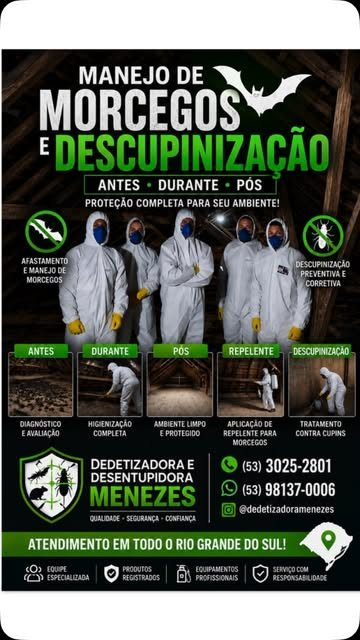
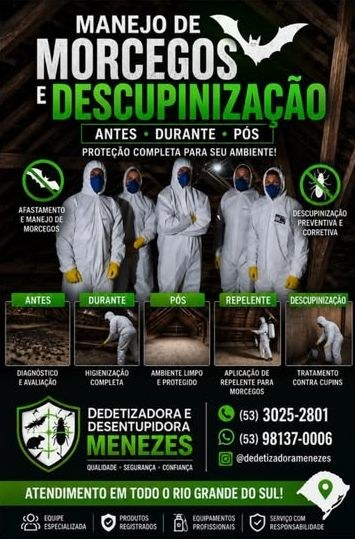
Galeria: cartões do carrossel com largura que cabe na tela e arte da descupinização sem faixas brancas

diff --git a/index.html b/index.html
@@ -203,18 +203,16 @@
   .highlights{display:flex;flex-wrap:wrap;gap:10px;margin:0;padding:0;list-style:none;}
 
   /* galeria: artes do Instagram da própria empresa, sempre inteiras (sem corte). Celular: carrossel; computador: linha com a mesma altura */
-  .gallery{display:flex;gap:12px;overflow-x:auto;scroll-snap-type:x mandatory;-webkit-overflow-scrolling:touch;margin:0;padding:0 0 10px;list-style:none;}
-  .gallery li{flex:0 0 auto;height:400px;scroll-snap-align:start;margin:0;}
-  .gallery a{display:block;height:100%;border-radius:14px;overflow:hidden;background:#0d0e0d;border:1px solid var(--line);}
-  .gallery img{height:100%;width:auto;max-width:none;display:block;transition:transform .5s ease;}
+  .gallery{display:flex;align-items:center;gap:12px;overflow-x:auto;scroll-snap-type:x mandatory;-webkit-overflow-scrolling:touch;margin:0;padding:0 0 10px;list-style:none;}
+  .gallery li{flex:0 0 auto;width:min(78vw,320px);scroll-snap-align:start;margin:0;}
+  .gallery a{display:block;border-radius:14px;overflow:hidden;background:#0d0e0d;border:1px solid var(--line);}
+  .gallery img{width:100%;height:auto;display:block;transition:transform .5s ease;}
   .gallery a:hover img{transform:scale(1.02);}
   .gallery-hint{display:none;margin-top:10px;font-family:var(--cond);font-weight:600;font-size:13px;color:var(--muted);}
   @media(max-width:899px){.gallery-hint{display:block;}}
   @media(min-width:900px){
-    .gallery{overflow:visible;gap:16px;padding:0;}
-    .gallery li{flex:var(--r) 1 0;height:auto;min-width:0;}
-    .gallery a{height:auto;}
-    .gallery img{width:100%;height:auto;}
+    .gallery{overflow:visible;gap:16px;padding:0;align-items:flex-start;}
+    .gallery li{flex:var(--r) 1 0;width:auto;min-width:0;}
   }
   .gallery-foot{margin-top:18px;}
 
@@ -569,7 +567,7 @@
     <ul class="gallery reveal">
       <li style="--r:0.8"><a href="https://www.instagram.com/dedetizadoramenezes/" target="_blank" rel="noopener"><picture><source srcset="img/insta-controle-urbano.webp" type="image/webp"><img src="img/insta-controle-urbano.jpg" width="512" height="640" loading="lazy" decoding="async" alt="Arte da Menezes: controle de pragas urbanas, com caminhão da empresa e a frase atendimentos em todo RS"></picture></a></li>
       <li style="--r:1"><a href="https://www.instagram.com/dedetizadoramenezes/" target="_blank" rel="noopener"><picture><source srcset="img/insta-caixa-dagua.webp" type="image/webp"><img src="img/insta-caixa-dagua.jpg" width="640" height="640" loading="lazy" decoding="async" alt="Arte da Menezes: antes e depois de caixa d'água limpa"></picture></a></li>
-      <li style="--r:0.5625"><a href="https://www.instagram.com/dedetizadoramenezes/" target="_blank" rel="noopener"><picture><source srcset="img/insta-descupinizacao.webp" type="image/webp"><img src="img/insta-descupinizacao.jpg" width="360" height="640" loading="lazy" decoding="async" alt="Arte da Menezes: manejo de morcegos e descupinização, antes, durante e depois"></picture></a></li>
+      <li style="--r:0.6586"><a href="https://www.instagram.com/dedetizadoramenezes/" target="_blank" rel="noopener"><picture><source srcset="img/insta-descupinizacao.webp" type="image/webp"><img src="img/insta-descupinizacao.jpg" width="355" height="539" loading="lazy" decoding="async" alt="Arte da Menezes: manejo de morcegos e descupinização, antes, durante e depois"></picture></a></li>
       <li style="--r:1"><a href="https://www.instagram.com/dedetizadoramenezes/" target="_blank" rel="noopener"><picture><source srcset="img/insta-desentupimento.webp" type="image/webp"><img src="img/insta-desentupimento.jpg" width="640" height="640" loading="lazy" decoding="async" alt="Arte da Menezes: desentupimento com caminhão de sucção e hidrojateamento"></picture></a></li>
     </ul>
     <p class="gallery-hint" aria-hidden="true">Deslize para ver mais →</p>
